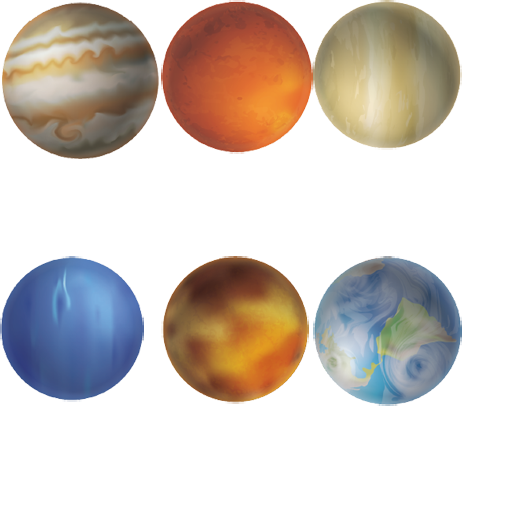
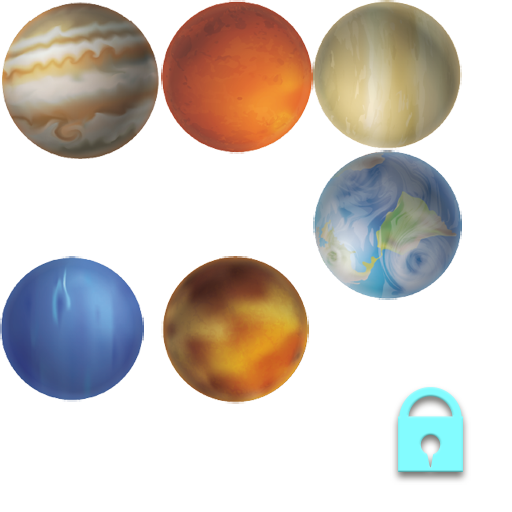
add save system

Changed region(s): [[0.5938, 0.2812, 0.9375, 0.9375]]

diff --git a/works/planets/scripts/c3runtime.js b/works/planets/scripts/c3runtime.js
@@ -3872,6 +3872,34 @@ C3.Plugins.Keyboard.Exps={LastKeyCode(){return this._triggerWhich},StringFromKey
 }
 
 {
+'use strict';{const C3=self.C3;C3.Plugins.Arr=class ArrayPlugin extends C3.SDKPluginBase{constructor(opts){super(opts)}Release(){super.Release()}}}{const C3=self.C3;C3.Plugins.Arr.Type=class ArrayType extends C3.SDKTypeBase{constructor(objectClass){super(objectClass)}Release(){super.Release()}OnCreate(){}}}
+{const C3=self.C3;const C3X=self.C3X;const IInstance=self.IInstance;function ResizeArray(arr,len,data){if(len<arr.length)C3.truncateArray(arr,len);else if(len>arr.length)if(typeof data==="function")for(let i=arr.length;i<len;++i)arr.push(data());else for(let i=arr.length;i<len;++i)arr.push(data)}C3.Plugins.Arr.Instance=class ArrayInstance extends C3.SDKInstanceBase{constructor(inst,properties){super(inst);this._cx=10;this._cy=1;this._cz=1;this._arr=null;this._forX=[];this._forY=[];this._forZ=[];this._forDepth=
+-1;if(properties){this._cx=properties[0];this._cy=properties[1];this._cz=properties[2]}this._arr=C3.MakeFilledArray(this._cx,()=>C3.MakeFilledArray(this._cy,()=>C3.MakeFilledArray(this._cz,0)))}Release(){this._arr=null;super.Release()}At(x,y,z){x=Math.floor(x);y=Math.floor(y);z=Math.floor(z);if(x>=0&&x<this._cx&&y>=0&&y<this._cy&&z>=0&&z<this._cz)return this._arr[x][y][z];else return 0}Set(x,y,z,val){x=Math.floor(x);y=Math.floor(y);z=Math.floor(z);if(x>=0&&x<this._cx&&y>=0&&y<this._cy&&z>=0&&z<this._cz)this._arr[x][y][z]=
+val}SetSize(w,h,d){w=Math.floor(w);h=Math.floor(h);d=Math.floor(d);if(w<0)w=0;if(h<0)h=0;if(d<0)d=0;if(this._cx===w&&this._cy===h&&this._cz===d)return;this._cx=w;this._cy=h;this._cz=d;const arr=this._arr;ResizeArray(arr,w,()=>C3.MakeFilledArray(h,()=>C3.MakeFilledArray(d,0)));for(let x=0;x<w;++x){ResizeArray(arr[x],h,()=>C3.MakeFilledArray(d,0));for(let y=0;y<h;++y)ResizeArray(arr[x][y],d,0)}}GetWidth(){return this._cx}GetHeight(){return this._cy}GetDepth(){return this._cz}GetDebuggerProperties(){const prefix=
+"plugins.arr.debugger";const propsPrefix="plugins.arr.properties";const ret=[{title:prefix+".array-properties.title",properties:[{name:propsPrefix+".width.name",value:this._cx,onedit:v=>this.SetSize(v,this._cy,this._cz)},{name:propsPrefix+".height.name",value:this._cy,onedit:v=>this.SetSize(this._cx,v,this._cz)},{name:propsPrefix+".depth.name",value:this._cz,onedit:v=>this.SetSize(this._cx,this._cy,v)},{name:propsPrefix+".elements.name",value:this._cx*this._cy*this._cz}]}];const dataProps=[];if(this._cy===
+1&&this._cz===1)for(let x=0;x<this._cx;++x)dataProps.push({name:"$"+x,value:this._arr[x][0][0],onedit:v=>this._arr[x][0][0]=v});else for(let x=0;x<this._cx;++x)dataProps.push({name:"$"+x,value:this._arr[x].toString()});if(dataProps.length)ret.push({title:prefix+".array-data.title",properties:dataProps});return ret}GetAsJsonString(){return JSON.stringify({"c2array":true,"size":[this._cx,this._cy,this._cz],"data":this._arr})}SaveToJson(){return{"size":[this._cx,this._cy,this._cz],"data":this._arr}}LoadFromJson(o){const sz=
+o["size"];this._cx=sz[0];this._cy=sz[1];this._cz=sz[2];this._arr=o["data"]}_GetForX(){if(this._forDepth>=0&&this._forDepth<this._forX.length)return this._forX[this._forDepth];else return 0}_GetForY(){if(this._forDepth>=0&&this._forDepth<this._forY.length)return this._forY[this._forDepth];else return 0}_GetForZ(){if(this._forDepth>=0&&this._forDepth<this._forZ.length)return this._forZ[this._forDepth];else return 0}GetScriptInterfaceClass(){return self.IArrayInstance}};const map=new WeakMap;self.IArrayInstance=
+class IArrayInstance extends IInstance{constructor(){super();map.set(this,IInstance._GetInitInst().GetSdkInstance())}get width(){return map.get(this).GetWidth()}get height(){return map.get(this).GetHeight()}get depth(){return map.get(this).GetDepth()}setSize(w,h=1,d=1){C3X.RequireFiniteNumber(w);C3X.RequireFiniteNumber(h);C3X.RequireFiniteNumber(d);map.get(this).SetSize(w,h,d)}getAt(x,y=0,z=0){C3X.RequireFiniteNumber(x);C3X.RequireFiniteNumber(y);C3X.RequireFiniteNumber(z);return map.get(this).At(x,
+y,z)}setAt(val,x,y=0,z=0){C3X.RequireFiniteNumber(x);C3X.RequireFiniteNumber(y);C3X.RequireFiniteNumber(z);if(typeof val!=="number"&&typeof val!=="string")throw new TypeError("invalid type");map.get(this).Set(x,y,z,val)}}}
+{const C3=self.C3;function DoForEachTrigger(eventSheetManager,currentEvent,solModifiers,oldFrame,newFrame){eventSheetManager.PushCopySol(solModifiers);currentEvent.Retrigger(oldFrame,newFrame);eventSheetManager.PopSol(solModifiers)}C3.Plugins.Arr.Cnds={CompareX(x,cmp,val){return C3.compare(this.At(x,0,0),cmp,val)},CompareXY(x,y,cmp,val){return C3.compare(this.At(x,y,0),cmp,val)},CompareXYZ(x,y,z,cmp,val){return C3.compare(this.At(x,y,z),cmp,val)},ArrForEach(dims){const runtime=this._runtime;const eventSheetManager=
+runtime.GetEventSheetManager();const currentEvent=runtime.GetCurrentEvent();const solModifiers=currentEvent.GetSolModifiers();const eventStack=runtime.GetEventStack();const oldFrame=eventStack.GetCurrentStackFrame();const newFrame=eventStack.Push(currentEvent);const forDepth=++this._forDepth;const forX=this._forX;const forY=this._forY;const forZ=this._forZ;const cx=this._cx;const cy=this._cy;const cz=this._cz;if(forDepth===this._forX.length){forX.push(0);forY.push(0);forZ.push(0)}else{forX[forDepth]=
+0;forY[forDepth]=0;forZ[forDepth]=0}runtime.SetDebuggingEnabled(false);if(dims===0)for(let x=0;x<cx;++x)for(let y=0;y<cy;++y)for(let z=0;z<cz;++z){forX[forDepth]=x;forY[forDepth]=y;forZ[forDepth]=z;DoForEachTrigger(eventSheetManager,currentEvent,solModifiers,oldFrame,newFrame)}else if(dims===1)for(let x=0;x<cx;++x)for(let y=0;y<cy;++y){forX[forDepth]=x;forY[forDepth]=y;DoForEachTrigger(eventSheetManager,currentEvent,solModifiers,oldFrame,newFrame)}else for(let x=0;x<cx;++x){forX[forDepth]=x;DoForEachTrigger(eventSheetManager,
+currentEvent,solModifiers,oldFrame,newFrame)}runtime.SetDebuggingEnabled(true);this._forDepth--;eventStack.Pop();return false},CompareCurrent(cmp,val){return C3.compare(this.At(this._GetForX(),this._GetForY(),this._GetForZ()),cmp,val)},Contains(val){const cx=this._cx;const cy=this._cy;const cz=this._cz;const arr=this._arr;for(let x=0;x<cx;++x)for(let y=0;y<cy;++y)for(let z=0;z<cz;++z)if(arr[x][y][z]===val)return true;return false},IsEmpty(){return this._cx===0||this._cy===0||this._cz===0},CompareSize(axis,
+cmp,val){let s=0;switch(axis){case 0:s=this._cx;break;case 1:s=this._cy;break;case 2:s=this._cz;break}return C3.compare(s,cmp,val)}}}
+{const C3=self.C3;function CompareValues(va,vb){if(typeof va==="number"&&typeof vb==="number")return va-vb;else{const sa=va.toString();const sb=vb.toString();if(sa<sb)return-1;else if(sa>sb)return 1;else return 0}}C3.Plugins.Arr.Acts={Clear(v){const cx=this._cx;const cy=this._cy;const cz=this._cz;const arr=this._arr;for(let x=0;x<cx;++x)for(let y=0;y<cy;++y)for(let z=0;z<cz;++z)arr[x][y][z]=v},SetSize(w,h,d){this.SetSize(w,h,d)},SetX(x,val){this.Set(x,0,0,val)},SetXY(x,y,val){this.Set(x,y,0,val)},
+SetXYZ(x,y,z,val){this.Set(x,y,z,val)},Push(where,value,axis){const cx=this._cx;const cy=this._cy;const cz=this._cz;const arr=this._arr;if(axis===0){const add=C3.MakeFilledArray(cy,()=>C3.MakeFilledArray(cz,value));if(where===0)arr.push(add);else arr.unshift(add);this._cx++}else if(axis===1){for(let x=0;x<cx;++x){const add=C3.MakeFilledArray(cz,value);if(where===0)arr[x].push(add);else arr[x].unshift(add)}this._cy++}else{for(let x=0;x<cx;++x)for(let y=0;y<cy;++y)if(where===0)arr[x][y].push(value);
+else arr[x][y].unshift(value);this._cz++}},Pop(where,axis){const cx=this._cx;const cy=this._cy;const cz=this._cz;const arr=this._arr;if(axis===0){if(cx===0)return;if(where===0)arr.pop();else arr.shift();this._cx--}else if(axis===1){if(cy===0)return;for(let x=0;x<cx;++x)if(where===0)arr[x].pop();else arr[x].shift();this._cy--}else{if(cz===0)return;for(let x=0;x<cx;++x)for(let y=0;y<cy;++y)if(where===0)arr[x][y].pop();else arr[x][y].shift();this._cz--}},Reverse(axis){const cx=this._cx;const cy=this._cy;
+const cz=this._cz;const arr=this._arr;if(cx===0||cy===0||cz===0)return;if(axis===0)arr.reverse();else if(axis===1)for(let x=0;x<cx;++x)arr[x].reverse();else for(let x=0;x<cx;++x)for(let y=0;y<cy;++y)arr[x][y].reverse()},Sort(axis){const cx=this._cx;const cy=this._cy;const cz=this._cz;const arr=this._arr;if(cx===0||cy===0||cz===0)return;if(axis===0)arr.sort((a,b)=>CompareValues(a[0][0],b[0][0]));else if(axis===1)for(let x=0;x<cx;++x)arr[x].sort((a,b)=>CompareValues(a[0],b[0]));else for(let x=0;x<cx;++x)for(let y=
+0;y<cy;++y)arr[x][y].sort(CompareValues)},Delete(index,axis){index=Math.floor(index);if(index<0)return;const cx=this._cx;const cy=this._cy;const cz=this._cz;const arr=this._arr;if(axis===0){if(index>=cx)return;arr.splice(index,1);this._cx--}else if(axis===1){if(index>=cy)return;for(let x=0;x<cx;++x)arr[x].splice(index,1);this._cy--}else{if(index>=cz)return;for(let x=0;x<cx;++x)for(let y=0;y<cy;++y)arr[x][y].splice(index,1);this._cz--}},Insert(value,index,axis){index=Math.floor(index);if(index<0)return;
+const cx=this._cx;const cy=this._cy;const cz=this._cz;const arr=this._arr;if(axis===0){if(index>cx)return;arr.splice(index,0,C3.MakeFilledArray(cy,()=>C3.MakeFilledArray(cz,value)));this._cx++}else if(axis===1){if(index>cy)return;for(let x=0;x<cx;++x)arr[x].splice(index,0,C3.MakeFilledArray(cz,value));this._cy++}else{if(index>cz)return;for(let x=0;x<cx;++x)for(let y=0;y<cy;++y)arr[x][y].splice(index,0,value);this._cz++}},SplitString(str,sep,type){const parts=str.split(sep);this.SetSize(parts.length,
+1,1);for(let i=0,len=parts.length;i<len;++i){let v=parts[i];if(type===0){if(String(Number(v))===v)v=Number(v)}else if(type===2)v=Number(v);this.Set(i,0,0,v)}},JSONLoad(json){let o=null;try{o=JSON.parse(json)}catch(err){console.error("[Construct] Failed to parse JSON: ",err);return}if(!o["c2array"])return;const sz=o["size"];this._cx=sz[0];this._cy=sz[1];this._cz=sz[2];this._arr=o["data"]},JSONDownload(filename){const url=URL.createObjectURL(new Blob([this.GetAsJsonString()],{type:"application/json"}));
+this._runtime.InvokeDownload(url,filename)}}}
+{const C3=self.C3;C3.Plugins.Arr.Exps={At(x,y,z){return this.At(x,y||0,z||0)},Width(){return this._cx},Height(){return this._cy},Depth(){return this._cz},CurX(){return this._GetForX()},CurY(){return this._GetForY()},CurZ(){return this._GetForZ()},CurValue(){return this.At(this._GetForX(),this._GetForY(),this._GetForZ())},Front(){return this.At(0,0,0)},Back(){return this.At(this._cx-1,0,0)},IndexOf(v){const arr=this._arr;for(let x=0,len=this._cx;x<len;++x)if(arr[x][0][0]===v)return x;return-1},LastIndexOf(v){const arr=
+this._arr;for(let x=this._cx-1;x>=0;--x)if(arr[x][0][0]===v)return x;return-1},JoinString(sep){let arr=[];for(let x=0;x<this._cx;++x)arr.push(this.At(x,0,0));return arr.join(sep)},AsJSON(){return this.GetAsJsonString()}}};
+
+}
+
+{
 'use strict';{const C3=self.C3;C3.Plugins.Sprite=class SpritePlugin extends C3.SDKPluginBase{constructor(opts){super(opts)}Release(){super.Release()}}}
 {const C3=self.C3;const spawnPickStack=[];C3.Plugins.Sprite.Type=class SpriteType extends C3.SDKTypeBase{constructor(objectClass){super(objectClass);this._animations=objectClass.GetAnimations()}Release(){C3.clearArray(this._animations);super.Release()}OnCreate(){for(const a of this._animations)a.LoadAllAssets(this._runtime)}LoadTextures(renderer){const opts={sampling:this._runtime.GetSampling()};return Promise.all(this._animations.map(a=>a.LoadAllTextures(renderer,opts)))}ReleaseTextures(){for(const a of this._animations)a.ReleaseAllTextures()}OnDynamicTextureLoadComplete(){this._UpdateAllCurrentTexture()}_UpdateAllCurrentTexture(){for(const inst of this._objectClass.instancesIncludingPendingCreate())inst.GetSdkInstance()._UpdateCurrentTexture()}FinishCondition(doPick){C3.Plugins.Sprite.FinishCollisionCondition(this,
 doPick)}BeforeRunAction(method){spawnPickStack.push({objectClass:null,createHierarchy:false,instances:[]})}_SpawnPickInstance(objectClass,inst,createHierarchy){const entry=spawnPickStack.at(-1);entry.objectClass=objectClass;entry.createHierarchy=createHierarchy;entry.instances.push(inst)}AfterRunAction(method){const entry=spawnPickStack.pop();const objectClass=entry.objectClass;const createHierarchy=entry.createHierarchy;if(!objectClass)return;const pickMap=new Map;for(const inst of entry.instances)inst.CollectInstancesToPick(pickMap,
@@ -4113,6 +4141,7 @@ self.C3_GetObjectRefTable = function () {
 		C3.Plugins.Touch,
 		C3.Plugins.Audio,
 		C3.Plugins.Keyboard,
+		C3.Plugins.Arr,
 		C3.Plugins.Sprite,
 		C3.Behaviors.Tween,
 		C3.Plugins.TiledBg,
@@ -4122,9 +4151,17 @@ self.C3_GetObjectRefTable = function () {
 		C3.Plugins.System.Cnds.Compare,
 		C3.Plugins.System.Exps.layoutname,
 		C3.Plugins.System.Cnds.OnLayoutStart,
+		C3.Plugins.Arr.Acts.SetX,
+		C3.Plugins.LocalStorage.Acts.CheckItemExists,
 		C3.Plugins.Audio.Acts.PreloadByName,
 		C3.Plugins.System.Acts.Wait,
 		C3.Plugins.System.Acts.GoToLayout,
+		C3.Plugins.LocalStorage.Cnds.OnItemExists,
+		C3.Plugins.Arr.Acts.JSONLoad,
+		C3.Plugins.LocalStorage.Exps.ItemValue,
+		C3.Plugins.LocalStorage.Cnds.OnItemMissing,
+		C3.Plugins.LocalStorage.Acts.SetItem,
+		C3.Plugins.Arr.Exps.AsJSON,
 		C3.Behaviors.Tween.Acts.TweenOneProperty,
 		C3.Behaviors.Tween.Cnds.OnTweensFinished,
 		C3.Plugins.Text.Acts.SetText,
@@ -4135,11 +4172,16 @@ self.C3_GetObjectRefTable = function () {
 		C3.Plugins.Sprite.Acts.SetBoolInstanceVar,
 		C3.Plugins.Audio.Acts.Play,
 		C3.Behaviors.Tween.Acts.TweenTwoProperties,
+		C3.Plugins.Sprite.Acts.SetAnimFrame,
+		C3.Plugins.Arr.Exps.At,
 		C3.Plugins.Sprite.Cnds.OnCreated,
 		C3.Plugins.Sprite.Acts.SetInstanceVar,
 		C3.Plugins.Sprite.Exps.Width,
 		C3.Plugins.Sprite.Exps.Height,
+		C3.Plugins.Arr.Cnds.CompareX,
 		C3.Plugins.System.Acts.GoToLayoutByName,
+		C3.Plugins.System.Cnds.Else,
+		C3.Plugins.Sprite.Cnds.CompareInstanceVar,
 		C3.Plugins.System.Cnds.LayerVisible,
 		C3.Plugins.Sprite.Cnds.CompareOpacity,
 		C3.Plugins.Sprite.Cnds.CompareFrame,
@@ -4151,11 +4193,6 @@ self.C3_GetObjectRefTable = function () {
 		C3.Plugins.TiledBg.Acts.SetOpacity,
 		C3.Plugins.System.Acts.SetBoolVar,
 		C3.Plugins.Audio.Acts.Stop,
-		C3.Plugins.System.Cnds.CompareBoolVar,
-		C3.Plugins.Audio.Cnds.IsTagPlaying,
-		C3.Plugins.Audio.Acts.PlayByName,
-		C3.ScriptsInEvents.Common_Event45_Act2,
-		C3.ScriptsInEvents.Common_Event47_Act2,
 		C3.Plugins.Text.Acts.SetOpacity,
 		C3.Plugins.Sprite.Exps.X,
 		C3.Plugins.Sprite.Exps.Y,
@@ -4165,10 +4202,7 @@ self.C3_GetObjectRefTable = function () {
 		C3.Plugins.Sprite.Cnds.IsOverlapping,
 		C3.Plugins.Sprite.Acts.SetPos,
 		C3.Behaviors.DragnDrop.Acts.SetEnabled,
-		C3.Plugins.System.Cnds.Else,
-		C3.Plugins.Sprite.Acts.AddInstanceVar,
-		C3.Plugins.Sprite.Cnds.CompareInstanceVar,
-		C3.Plugins.Sprite.Acts.SetAnimFrame
+		C3.Plugins.Sprite.Acts.AddInstanceVar
 	];
 };
 self.C3_JsPropNameTable = [
@@ -4176,6 +4210,7 @@ self.C3_JsPropNameTable = [
 	{Touch: 0},
 	{Audio: 0},
 	{Keyboard: 0},
+	{arStages: 0},
 	{onClick: 0},
 	{Tween: 0},
 	{menuBtnPlay: 0},
@@ -4233,6 +4268,7 @@ self.C3_JsPropNameTable = [
 	{planetsCongras: 0},
 	{sun: 0},
 	{fadeObj: 0},
+	{lockedStage: 0},
 	{DragDrop: 0},
 	{elements: 0},
 	{planets: 0},
@@ -4345,6 +4381,9 @@ self.C3_ExpressionFuncs = [
 			return () => f0();
 		},
 		() => "loading",
+		() => 0,
+		() => 1,
+		() => "savegamePlanetesEdin",
 		() => "gameplay",
 		() => "menus",
 		() => "btn",
@@ -4353,14 +4392,16 @@ self.C3_ExpressionFuncs = [
 		() => "endGame",
 		() => "winStage",
 		() => 2,
+		p => {
+			const n0 = p._GetNode(0);
+			return () => n0.ExpObject();
+		},
 		() => "Devs",
 		() => "developerLogos",
-		() => 1,
 		() => "centralVisible",
 		() => 100,
 		() => 1.5,
 		() => "centralInvisible",
-		() => 0,
 		() => "logosVisible",
 		() => "logosVisibleTic",
 		() => "logosInvisible",
@@ -4384,7 +4425,12 @@ self.C3_ExpressionFuncs = [
 		() => "levelSelector",
 		p => {
 			const n0 = p._GetNode(0);
-			return () => n0.ExpObject();
+			const n1 = p._GetNode(1);
+			return () => n0.ExpObject(n1.ExpInstVar());
+		},
+		p => {
+			const n0 = p._GetNode(0);
+			return () => (n0.ExpInstVar_Family() - 1);
 		},
 		() => 0.05,
 		() => "selectPlanets",
@@ -4400,6 +4446,11 @@ self.C3_ExpressionFuncs = [
 		p => {
 			const n0 = p._GetNode(0);
 			return () => and("stage", n0.ExpInstVar_Family());
+		},
+		() => "locked",
+		p => {
+			const n0 = p._GetNode(0);
+			return () => (n0.ExpObject() * 0.9);
 		},
 		() => "HUD",
 		() => "finish",
@@ -4419,7 +4470,12 @@ self.C3_ExpressionFuncs = [
 		() => "",
 		() => "fadeIn",
 		() => "fadeOut",
-		() => "Music System",
+		() => "Save Game",
+		p => {
+			const v0 = p._GetNode(0).GetVar();
+			return () => v0.GetValue();
+		},
+		() => "music",
 		() => "stage1",
 		() => "stage2",
 		() => "stage3",
@@ -4427,7 +4483,6 @@ self.C3_ExpressionFuncs = [
 		() => "stage5",
 		() => "stage6",
 		() => "stage7",
-		() => "music",
 		p => {
 			const n0 = p._GetNode(0);
 			return () => n0.ExpInstVar();

diff --git a/works/planets/scripts/project/scriptsInEvents.js b/works/planets/scripts/project/scriptsInEvents.js
@@ -3,15 +3,7 @@
 
 const scriptsInEvents = {
 
-	async Common_Event45_Act2(runtime, localVars)
-	{
-		console.log('roda musica menu')
-	},
 
-	async Common_Event47_Act2(runtime, localVars)
-	{
-		console.log('roda musica gameplay')
-	}
 
 };
 
